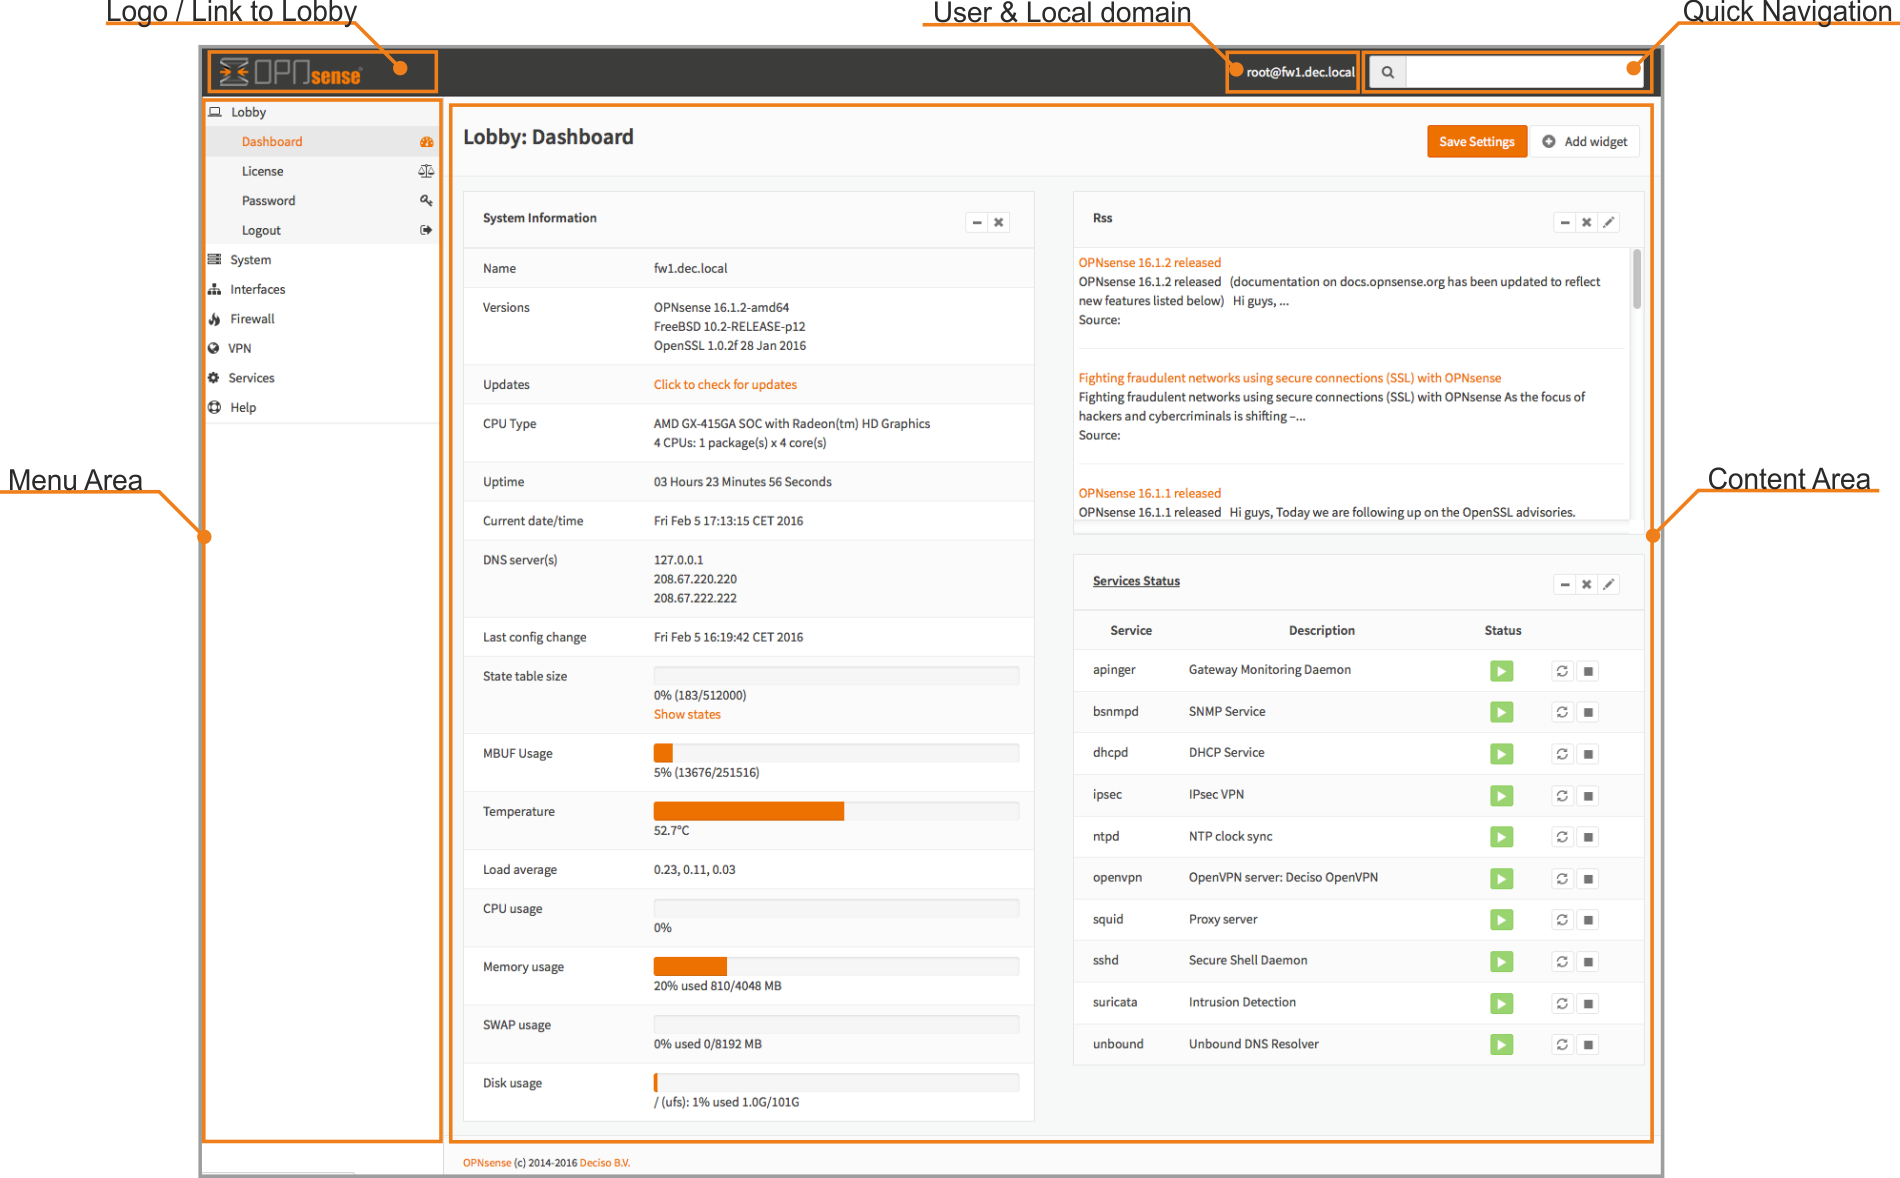
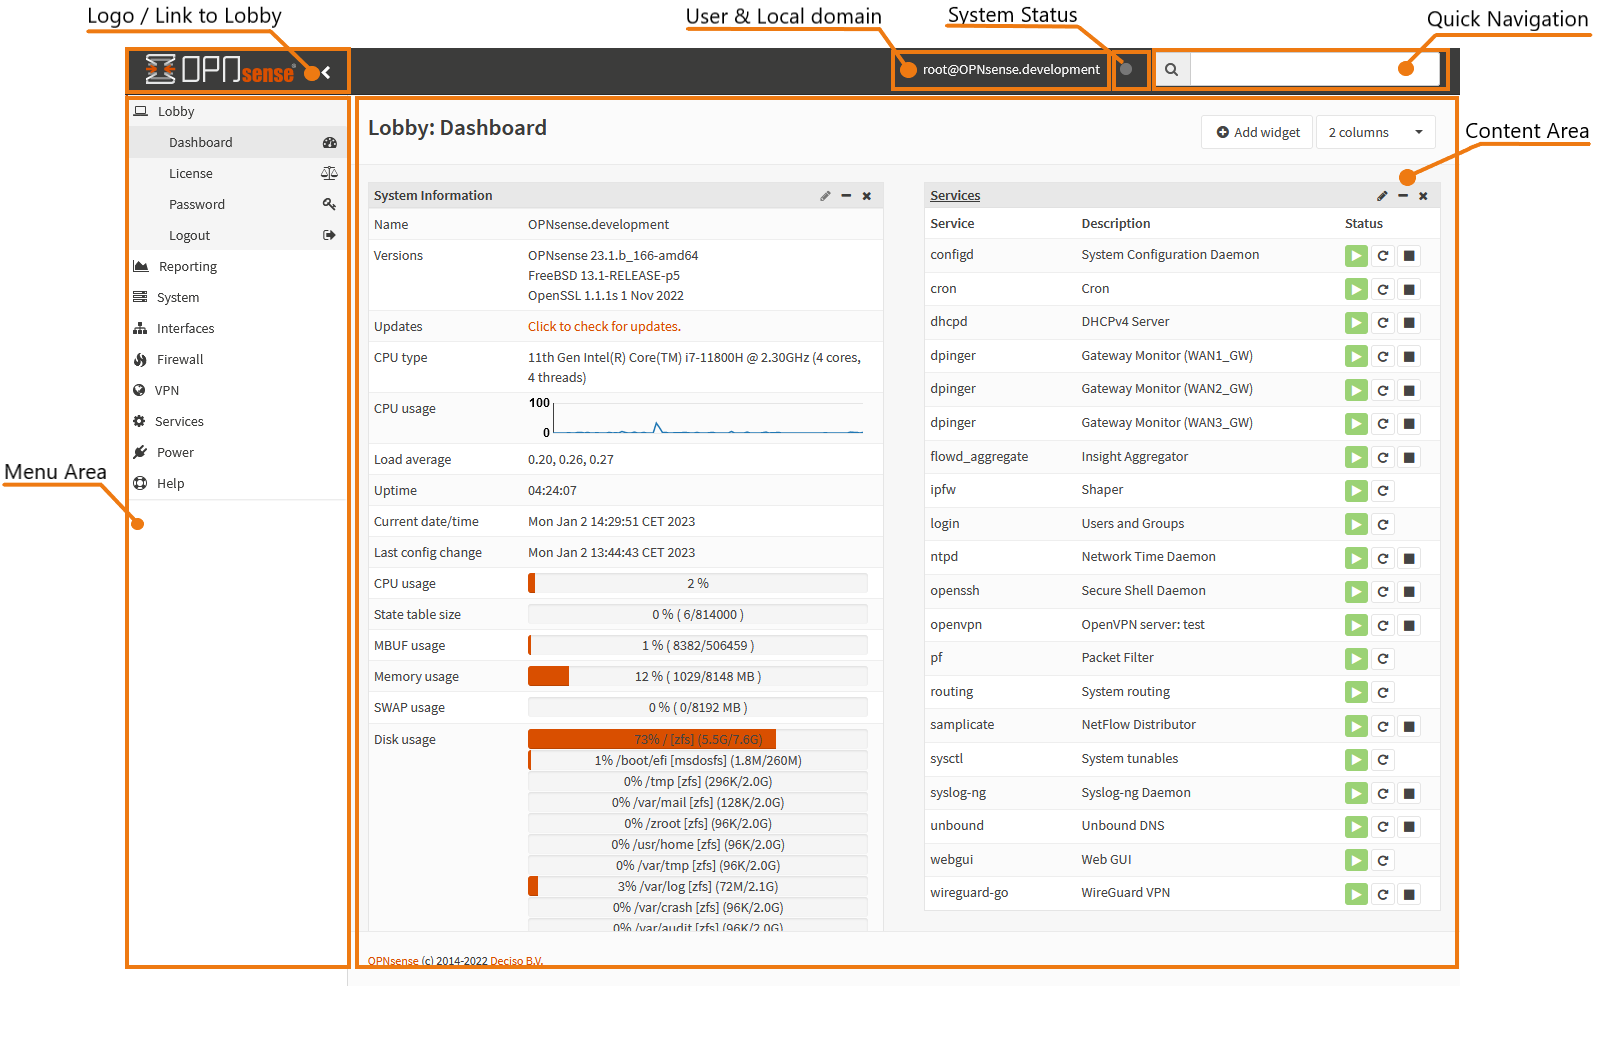
GUI / System Status: update documentation

diff --git a/source/manual/gui.rst b/source/manual/gui.rst
@@ -66,9 +66,29 @@ and navigate directly to the right page.
 .. image:: images/quick-navigation.png
 
 
+System Status
+-------------
+In the upper right corner of the screen is also a small indication of the system status.
+In a normal situation this will be greyed out, but it will display a color if something is
+wrong. You can click on it to review any of the pending messages, if any:
+
+.. image:: images/gui_system_status.png
+
+The colors indicate the severity of the issue. They are:
+
+* Red. Indicates that an error has occured during system operation. Click it to go to the
+  relevant page. In most cases this will be the crash reporter, which you can use
+  to send us information about the crash.
+
+.. image:: images/gui_system_status_error.png
+
+* Yellow. Indicates a warning.
+* Blue. Indicates an informational message.
+* Grey. Everything is working as normal.
+
 User & Local domain
 -------------------
-In the right corner just to the left of the quick navigation you will see your
+In the right corner just to the left of the system status you will see your
 username and the full domain name the firewall is configured with
 (to change firewall name, go to :menuselection:`System --> Setting --> General`).
 
